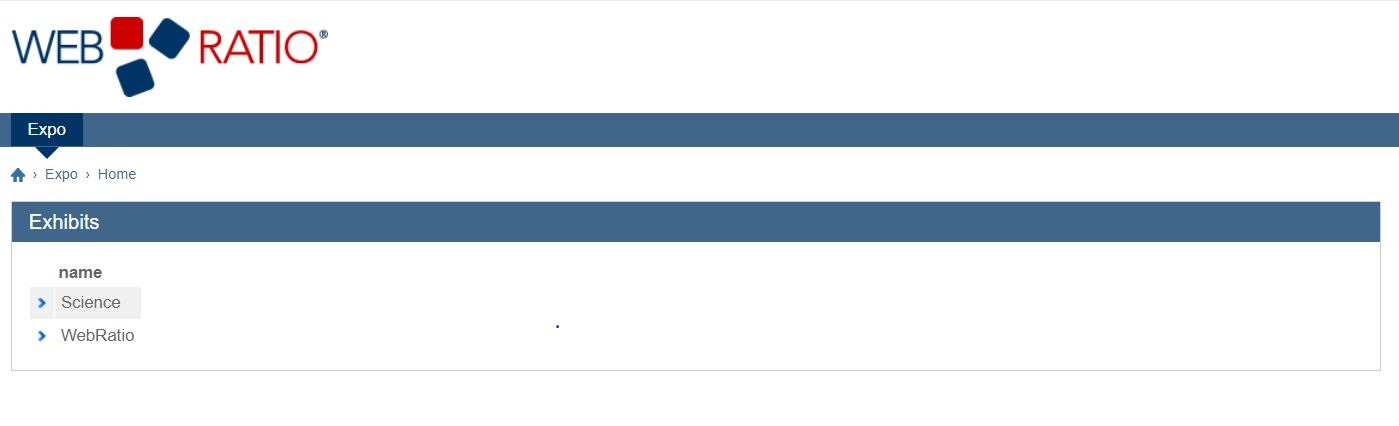
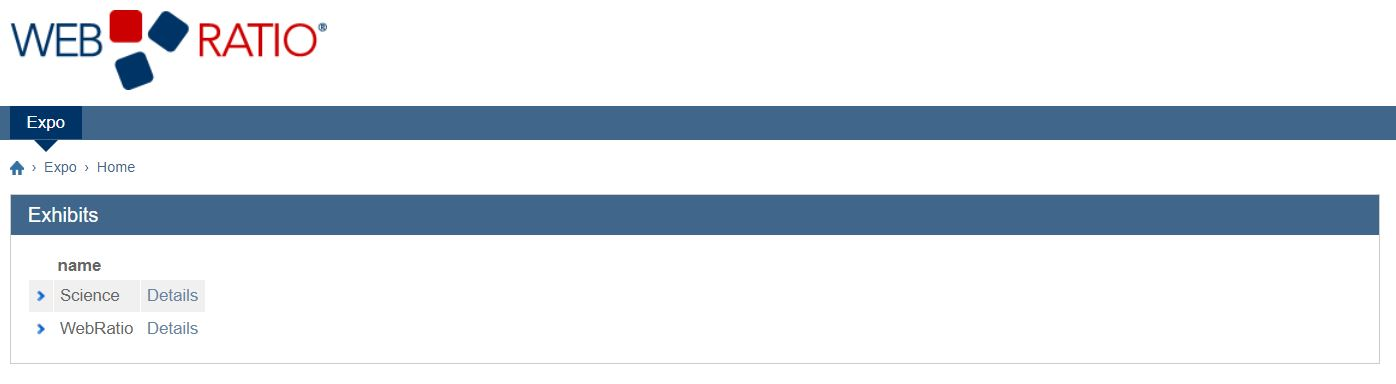
Update to tutorial, now added proper voting functionality

diff --git a/Tutorial/README.md b/Tutorial/README.md
@@ -17,7 +17,7 @@ The final application that will be made in this tutorial is also available in th
         - Give the project a name (like *Expo*)
         - Should now have new project with a *Model.wr* file and domain model looking like this:
 ![Initial domain model](screenshots/InitDomainModel.JPG)     
-    - Right click in *outline* window, go to *add* and then select *Database* to create a new database
+    - Right click in *outline* window for the domain model, go to *add* and then select *Database* to create a new database
     - Click on the database and go to the *properties window* (bottom left)
         - Select type: *Apache derby*
         - Add to URL: jdbc:derby://localhost:50124/*Your_DB_Name_Here*;create=true
@@ -31,15 +31,14 @@ The final application that will be made in this tutorial is also available in th
         - Call the new entity *Exhibit*
         - Right click on *Exhibit* entity -> *add* -> *attribute* and add a new attribute called "name" of type string
         - Click on *Relationship* and add a new relationship between *Exhibit* and *User* (brown circle with an R inside)
-    - Repeat above steps to create a new entity called *Rating* with an attribute "score" of type float and
-         a relationship between *Exhibit* and *Rating*
+    - Repeat above steps to create a new entity called *Rating* with an attribute "score" of type float, an attribute calles userid of type string and a relationship between *Exhibit* and *Rating*
 
 The resulting domain model should look something like this:
 ![Final domain model](screenshots/DomainModelFinal.JPG)
 
 4. **Initialize Database**
     - Right click on your database and click on *Synchronize* 
-        - Choose select *App* as schemata and hit *Next*
+        - Select *App* as schemata and hit *Next*
         - Click on *Export all objects* (rightmost button above window) and hit *Next*
         - Now you have created a SQL script for initializing the DB, make sure *Save and execute* is checked and hit finish
         - Should now be able to expand the database in the *Outline* window to view metadata
@@ -53,11 +52,16 @@ The resulting domain model should look something like this:
     - Click on the *Project* tab to bring up the project in the *Outline* window
     - Right click on *Web Model* and select *Site View* and call it "View" \
 **All the different components for creating model can also be found in the toolbar on the left side of the window**
-    - Add area: Right click in *View* window -> *Add* -> *Area* and call it "Expo"
-    - Add homepage: Inside *Area*, right click -> *Add* -> *Page* and call it "Home"
-    - Add exhibit list: Inside *Home* page, right click -> *Add view components* -> *List* and call it "Exhibits"
-        - In properties window: locate *Entity*, click select, and choose *Exhibit*
-        - In properties window: locate *Display Attributes*, click on select and check *Name*
+    - **Add area:** Right click in *View* window -> *Add* -> *Area* and call it "Expo"
+    - **Add homepage:** Inside *Area*, right click -> *Add* -> *Page* and call it "Home"
+    - **Add exhibit list:** Inside *Home* page, right click -> *Add view components* -> *List* and call it "Exhibits"
+        - **In properties window:** locate *Entity*, click select, and choose *Exhibit*
+        - **In properties window:** locate *Display Attributes*, click on select and check *Name*
+    - **Add new page in *Expo* area:** Right click in *Expo* area -> *Add* -> *Page* and call it *Exhibit*
+    - **Create exhibit details:** Right click in *Exhibit* page -> *Add view components* -> *Details* and call it "Exhibit"
+        - Properties: Add entity *Exhibit*
+    - **Create a data flow from *Exhibits* list to *Details*:** Right click on *Exhibits* list -> *Add* -> *Flow* and then click on details
+        - Properties: Add name *Details*
 
 This is what the view model should look like:
 ![Basic view model](screenshots/BasicView.JPG)
@@ -67,33 +71,59 @@ To run the application: Right click in outline window -> *Generate* -> *Generate
 A tomcat server terminal window will pop up, before the webpage automatically pops up at the homepage of our application (default port 8080).\
 To stop the application, simply close the tomcat terminal window.
 
-This is what it should look like:
+This is what the homepage should look like:
 ![Initial home page view](screenshots/HomePageInital.JPG)
 
-6. **Create more advanced system for voting on exhibits**
-    - Add new page in *Expo* area -> *Add* -> *Page* and call it *Exhibit*
-    - Create exhibit details: Right click in *Exhibit* page -> *Add view components* -> *Details* and call it "Exhibit"
-        - Properties: Add entity *Exhibit*
-    - Create a data flow from *Exhibits* list to *Details*: Right click on *Exhibits* list -> *Add* -> *Flow* and then click on details
-        - Properties: Add name *Details*
-    - Create voting form: Right click in *Exhibit* page -> *Add view components* -> *Form* and call it "Vote"
+
+6. **Create a system for voting on exhibits**
+    This is a more advanced system that will be using a script (*GetSessionId.groovy*) for getting the session id of the user, such that the user only would be able to vote once on each exhibit. 
+
+    - **Create voting form:** Right click in *Exhibit* page -> *Add view components* -> *Form* and call it "Vote"
         - Properties: Add entity *Rating*
         - Right click on form -> *Entity fields wizard*, make sure only *score* is checked and click *Finish*
-    - Create flow from *Details* to *Vote* (like flow above)
-        - Properties: In binding: *Open parameter binding dialog*, uncheck *Enable default binding*, go to tab *Passing* and check *oid*
-    -  Create Database operation: Right click in *Expo* area -> *Add operation* -> *Change* and name it "AddVote"
-        - Properties: Add entity *Rating*
-    - Create flow from *Vote* to *AddVote* (like flow above)
-        - Properties: Give it the name "Vote" 
-        In binding: *Open parameter binding dialog*, uncheck *Enable default binding*, and in *source* select *oid_Passing*
-              where the *target* is *oid*
-    - Create view to show the votes for the exhibit: right click in *Exhibit page* -> *add* -> *list* and call it "Rating"
-        - Properties: Set entity to *rating* and display attributes to *score*
-    - Create flow from *Details* to *Rating* (like flow above, no need for properties)
+    - **Create flow from *Details* to *Vote*:** Right click in *Details* -> *Add* -> *Flow* and click on *Vote*
+        - Right click on the flow arrow and click on *Parameters Binding...* 
+        - Uncheck *Enable default binding*, go to tab *Passing* and check *oid*
+    - **Create view to show the votes for the exhibit:** right click in *Exhibit page* -> *Add* -> *List* and call it "Rating"
+        - **Properties**: Set entity to *Rating* and display attributes to *score*
+        - Right click on *Rating* -> *Add* -> *Relationship Role Condition*
+    - **Create flow from *Details* to *Rating*** Right click in *Details* -> *Add* -> *Flow* and click on *Rating*
+    - **Create operation group**: Right click in *Expo* area -> *Add* -> *Operation Group* and name it "Update Rating"
+    - **Create script component:** Right click in *Update Rating* operation group -> *Add Utility Components* -> *Script* and name it GetSessionId
+        - **Properties:** In script file, click on *Browse* and locate the script *GetSessionId.groovy*
+    - **Create a delete operation:** Right click in *Update Rating* operation group *Add Operations* -> *Delete* and name it "DeleteExistingRating"
+        - **Properties:** Locate Entity, click Select and choose *Rating*
+        - Expand *DeleteExistingRating* in *Outline* tab (to the left), locate and delete the *KeyConditon*
+        - Right click on *DeleteExistingRating* -> *Attributes Condition* 
+            - Name it "UserIdCondition"  
+            - **Properties:** Locate attributes, click select and chech the UserId attribute
+        - Right click on *DeleteExistingRating* -> *Relationship Role Condition* 
+            - Name it "ExhibitToRatingCondition"
+            - **Properties:** Locate role, click on Select, choose ExhibitToRating and click ok
+    - **Create a create operation:** Right click in *Update Rating* operation group *Add Operations* -> *Create* and name it "CreateRating"
+        - **Properties:** Locate entity, click on select, choose *Rating* and click *ok*
+    - **Create flow from *Vote* to *GetSessionId* script:** Right click on *Vote* -> *Add* -> *Flow* and click on *GetSessionId*
+    - **Create OK-flow from *GetSessionId* to *DeleteExistingRating*:** Right click in *GetSessionId* -> *Add* -> *OK-flow* and click on *DeleteExistingRating*
+        - Right click on the flow arrow and click on *Parameters Binding...* 
+        - Add *Result* as a Source for *UserIdCondition*
+        - Go to *Passing* tab and check *Result*
+    - **Create OK-flow from *DeleteExistingRating* to *CreateRating*:** Right click *DeleteExistingRating* -> *Add* -> *OK-flow* and then click on *CreateRating*
+        - Right click on the flow arrow and click on *Parameters Binding...* 
+        - Add *Result_PASSING* as source for target *userid*
+    - **Create flow from *Vote* to *DeleteExistingRating*:** Right click on *Vote* -> *Add* -> *Flow* and then click on *DeleteExistingRating*
+        - **Properties:** Locate type and choose *data flow*
+        - Right click on the flow arrow and click on *Parameters Binding...* 
+        - Add *oid_PASSING* as source to target *ExhibitToRatingCondition*
+     - **Create flow from *Vote* to *CreateRating*:** Right click on *Vote* -> *Add* -> *Flow* and then click on *CreateRating*
+        - **Properties:** Locate type and choose *data flow*
+        - Right click on the flow arrow and click on *Parameters Binding...* 
+        - Add *oid_PASSING* as source to target *Exhibit.oid(RatingToExhibit)*
+        - Add *Score* as source to target *Score*
 
-This is what the view model now should look like:
-![Simple vote model](screenshots/SimpleVoteView.JPG)
-And this is the exhibit page after we have made a vote for this exhibit:
-![Simple vote site](screenshots/ExhibitDetails.JPG)
-    
+This is what the resulting model should look like:
+![Initial home page view](screenshots/ViewModelFinal.JPG)
+
+This is what the final exhibit site should look like:
+![Initial home page view](screenshots/ExhibitSiteFinal.JPG)
+        
 
